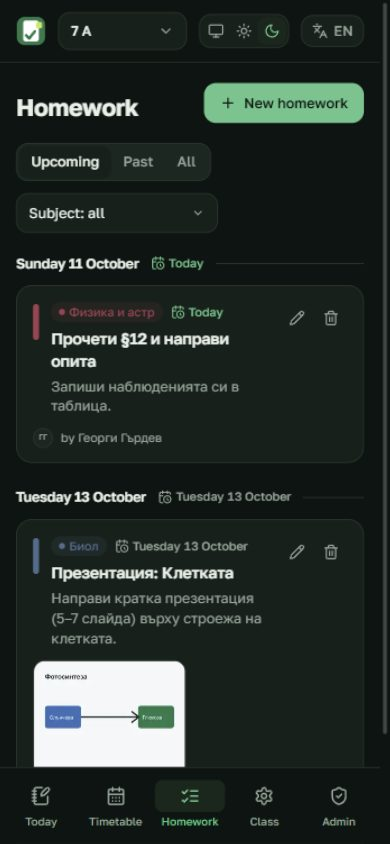
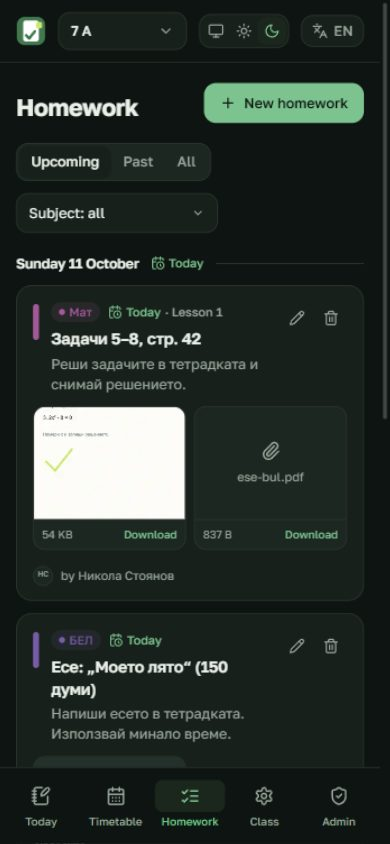
Branding: exact pill padding via text metrics, sharper screenshots (pre-scaled to device pixels), anonymise sample data

diff --git a/server/src/sample7a.js b/server/src/sample7a.js
@@ -1,57 +1,74 @@
-// The timetable read from the user's Shkolo PDF (7 А, week of 05.10.2026).
-// Labels, teachers, rooms and times follow the PDF so imports stay faithful;
-// everything can be edited afterwards in the app.
+// Sample timetable used by the "Sample 7A" import button.
+//
+// The structure mirrors a real Shkolo export (day, period, subject, teacher,
+// room, times), but all names are FICTIONAL — no real people or schools.
 //
 // day: 1 = Monday ... 5 = Friday ; period: 0 = "нулев час", 1..7 = regular.
 
+const T = {
+  math: 'Елена Т. Димитрова',
+  lit: 'Стефан П. Йорданов',
+  geo: 'Ирина Н. Костова',
+  physics: 'Габриела П. Стоянова',
+  chem: 'Виолета Р. Маринова',
+  bio: 'Светла В. Павлова',
+  music: 'Десислава Й. Христова',
+  en: 'Надежда К. Василева',
+  it: 'Мария П. Ангелова',
+  tech: 'Радостина Д. Петрова',
+  pe: 'Петя Д. Николова',
+  pe2: 'Борис Р. Георгиев',
+  cs: 'Мартин И. Тодоров',
+};
+
 export const sample7a = {
   name: '7 А',
-  note: 'Георги И. Гърдев, 7А - бб · класен: Галина К. Големанова-Перфанова',
+  note: 'Демонстрационен клас · класен ръководител: Надежда К. Василева',
   slots: [
-    // Понделник
-    { day: 1, period: 1, subject: 'КМИТ / Група 1', teacher: 'Павлина П. Дончева', room: 'к-т 16/16а (Етаж 2)', start: '13:30', end: '14:10' },
-    { day: 1, period: 2, subject: 'КМИТ / Група 1', teacher: 'Павлина П. Дончева', room: 'к-т 16/16а (Етаж 2)', start: '14:20', end: '15:00' },
-    { day: 1, period: 3, subject: 'Геогр', teacher: 'Лилия Н. Боярова-Недялкова', room: 'к-т 28 (Сутерен)', start: '15:10', end: '15:50' },
-    { day: 1, period: 4, subject: 'Мат', teacher: 'Венета Т. Кюркова', room: 'к-т 23 (Етаж 3)', start: '16:10', end: '16:50' },
-    { day: 1, period: 5, subject: 'БЕЛ (ИУЧ - РП/УП-А)', teacher: 'Веселин П. Кюмюрджиев', room: 'к-т 27 (мултимедиен кабинет) (Сутерен)', start: '17:00', end: '17:40' },
-    { day: 1, period: 6, subject: 'Техн и предпр', teacher: 'Светлана Д. Динева', room: 'к-т 25 (Етаж 3)', start: '17:50', end: '18:30' },
+    // Понеделник
+    { day: 1, period: 1, subject: 'КМИТ / Група 1', teacher: T.it, room: 'к-т 16/16а (Етаж 2)', start: '13:30', end: '14:10' },
+    { day: 1, period: 2, subject: 'КМИТ / Група 1', teacher: T.it, room: 'к-т 16/16а (Етаж 2)', start: '14:20', end: '15:00' },
+    { day: 1, period: 3, subject: 'Геогр', teacher: T.geo, room: 'к-т 28 (Сутерен)', start: '15:10', end: '15:50' },
+    { day: 1, period: 4, subject: 'Мат', teacher: T.math, room: 'к-т 23 (Етаж 3)', start: '16:10', end: '16:50' },
+    { day: 1, period: 5, subject: 'БЕЛ (ИУЧ - РП/УП-А)', teacher: T.lit, room: 'к-т 27 (мултимедиен кабинет) (Сутерен)', start: '17:00', end: '17:40' },
+    { day: 1, period: 6, subject: 'Техн и предпр', teacher: T.tech, room: 'к-т 25 (Етаж 3)', start: '17:50', end: '18:30' },
 
     // Вторник
-    { day: 2, period: 0, subject: 'БЕЛ (ФУЧ - ДП/ДРУП)', teacher: 'Веселин П. Кюмюрджиев', room: '', start: '12:40', end: '13:20' },
-    { day: 2, period: 1, subject: 'Физика и астр', teacher: 'Кети П. Маринова', room: 'к-т 22 (Етаж 3)', start: '13:30', end: '14:10' },
-    { day: 2, period: 2, subject: 'Музика', teacher: 'Яна Й. Тодорова', room: 'к-т 13 (Етаж 1)', start: '14:20', end: '15:00' },
-    { day: 2, period: 3, subject: 'БЕЛ', teacher: 'Веселин П. Кюмюрджиев', room: 'к-т 13 (Етаж 1)', start: '15:10', end: '15:50' },
-    { day: 2, period: 4, subject: 'История', teacher: 'Лилия Н. Боярова-Недялкова', room: 'к-т 23 (Етаж 3)', start: '16:10', end: '16:50' },
-    { day: 2, period: 5, subject: 'Англ', teacher: 'Галина К. Големанова-Перфанова', room: 'к-т 24 (Етаж 3)', start: '17:00', end: '17:40' },
-    { day: 2, period: 6, subject: 'Англ', teacher: 'Галина К. Големанова-Перфанова', room: 'к-т 24 (Етаж 3)', start: '17:50', end: '18:30' },
+    { day: 2, period: 0, subject: 'БЕЛ (ФУЧ - ДП/ДРУП)', teacher: T.lit, room: '', start: '12:40', end: '13:20' },
+    { day: 2, period: 1, subject: 'Физика и астр', teacher: T.physics, room: 'к-т 22 (Етаж 3)', start: '13:30', end: '14:10' },
+    { day: 2, period: 2, subject: 'Музика', teacher: T.music, room: 'к-т 13 (Етаж 1)', start: '14:20', end: '15:00' },
+    { day: 2, period: 3, subject: 'БЕЛ', teacher: T.lit, room: 'к-т 13 (Етаж 1)', start: '15:10', end: '15:50' },
+    { day: 2, period: 4, subject: 'История', teacher: T.geo, room: 'к-т 23 (Етаж 3)', start: '16:10', end: '16:50' },
+    { day: 2, period: 5, subject: 'Англ', teacher: T.en, room: 'к-т 24 (Етаж 3)', start: '17:00', end: '17:40' },
+    { day: 2, period: 6, subject: 'Англ', teacher: T.en, room: 'к-т 24 (Етаж 3)', start: '17:50', end: '18:30' },
 
     // Сряда
-    { day: 3, period: 0, subject: 'Волейбол', teacher: 'Красимира Д. Иванова', room: '', start: '12:40', end: '13:20' },
-    { day: 3, period: 1, subject: 'Мат', teacher: 'Венета Т. Кюркова', room: 'к-т 23 (Етаж 3)', start: '13:30', end: '14:10' },
-    { day: 3, period: 2, subject: 'Физика и астр', teacher: 'Кети П. Маринова', room: 'к-т 22 (Етаж 3)', start: '14:20', end: '15:00' },
-    { day: 3, period: 3, subject: 'БЕЛ', teacher: 'Веселин П. Кюмюрджиев', room: 'к-т 13 (Етаж 1)', start: '15:10', end: '15:50' },
-    { day: 3, period: 4, subject: 'БЕЛ', teacher: 'Веселин П. Кюмюрджиев', room: 'к-т 13 (Етаж 1)', start: '16:10', end: '16:50' },
-    { day: 3, period: 5, subject: 'Англ', teacher: 'Галина К. Големанова-Перфанова', room: 'к-т 24 (Етаж 3)', start: '17:00', end: '17:40' },
-    { day: 3, period: 6, subject: 'История', teacher: 'Лилия Н. Боярова-Недялкова', room: 'к-т 24 (Етаж 3)', start: '17:50', end: '18:30' },
-    { day: 3, period: 7, subject: 'ФВС', teacher: 'Красимира Д. Иванова', room: '', start: '18:40', end: '19:20' },
+    { day: 3, period: 0, subject: 'Волейбол', teacher: T.pe, room: '', start: '12:40', end: '13:20' },
+    { day: 3, period: 1, subject: 'Мат', teacher: T.math, room: 'к-т 23 (Етаж 3)', start: '13:30', end: '14:10' },
+    { day: 3, period: 2, subject: 'Физика и астр', teacher: T.physics, room: 'к-т 22 (Етаж 3)', start: '14:20', end: '15:00' },
+    { day: 3, period: 3, subject: 'БЕЛ', teacher: T.lit, room: 'к-т 13 (Етаж 1)', start: '15:10', end: '15:50' },
+    { day: 3, period: 4, subject: 'БЕЛ', teacher: T.lit, room: 'к-т 13 (Етаж 1)', start: '16:10', end: '16:50' },
+    { day: 3, period: 5, subject: 'Англ', teacher: T.en, room: 'к-т 24 (Етаж 3)', start: '17:00', end: '17:40' },
+    { day: 3, period: 6, subject: 'История', teacher: T.geo, room: 'к-т 24 (Етаж 3)', start: '17:50', end: '18:30' },
+    { day: 3, period: 7, subject: 'ФВС', teacher: T.pe, room: '', start: '18:40', end: '19:20' },
 
     // Четвъртък
-    { day: 4, period: 1, subject: 'ФВС (ЗАМ.)', teacher: 'Цветан Р. Иванов', room: '', start: '13:30', end: '14:10' },
-    { day: 4, period: 2, subject: 'Химия', teacher: 'Станимира Р. Колева', room: 'к-т 29 (Руски център) (Сутерен)', start: '14:20', end: '15:00' },
-    { day: 4, period: 3, subject: 'Мат', teacher: 'Венета Т. Кюркова', room: 'к-т 23 (Етаж 3)', start: '15:10', end: '15:50' },
-    { day: 4, period: 4, subject: 'Мат', teacher: 'Венета Т. Кюркова', room: 'к-т 23 (Етаж 3)', start: '16:10', end: '16:50' },
-    { day: 4, period: 5, subject: 'Биол', teacher: 'Росица В. Делчева', room: 'к-т 21 (Етаж 2)', start: '17:00', end: '17:40' },
-    { day: 4, period: 6, subject: 'Геогр', teacher: 'Лилия Н. Боярова-Недялкова', room: 'к-т 29 (Руски център) (Сутерен)', start: '17:50', end: '18:30' },
-    { day: 4, period: 7, subject: 'Безоп на движ', teacher: 'Галина К. Големанова-Перфанова', room: 'к-т 24 (Етаж 3)', start: '18:40', end: '19:20' },
+    { day: 4, period: 1, subject: 'ФВС (ЗАМ.)', teacher: T.pe2, room: '', start: '13:30', end: '14:10' },
+    { day: 4, period: 2, subject: 'Химия', teacher: T.chem, room: 'к-т 29 (Руски център) (Сутерен)', start: '14:20', end: '15:00' },
+    { day: 4, period: 3, subject: 'Мат', teacher: T.math, room: 'к-т 23 (Етаж 3)', start: '15:10', end: '15:50' },
+    { day: 4, period: 4, subject: 'Мат', teacher: T.math, room: 'к-т 23 (Етаж 3)', start: '16:10', end: '16:50' },
+    { day: 4, period: 5, subject: 'Биол', teacher: T.bio, room: 'к-т 21 (Етаж 2)', start: '17:00', end: '17:40' },
+    { day: 4, period: 6, subject: 'Геогр', teacher: T.geo, room: 'к-т 29 (Руски център) (Сутерен)', start: '17:50', end: '18:30' },
+    { day: 4, period: 7, subject: 'Безоп на движ', teacher: T.en, room: 'к-т 24 (Етаж 3)', start: '18:40', end: '19:20' },
 
     // Петък
-    { day: 5, period: 0, subject: 'Мат (ФУЧ - ДП/ДРУП)', teacher: 'Венета Т. Кюркова', room: '', start: '12:40', end: '13:20' },
-    { day: 5, period: 1, subject: 'Мат', teacher: 'Венета Т. Кюркова', room: 'к-т 23 (Етаж 3)', start: '13:30', end: '14:10' },
-    { day: 5, period: 2, subject: 'Мат (ИУЧ - РП/УП-А)', teacher: 'Венета Т. Кюркова', room: 'к-т 23 (Етаж 3)', start: '14:20', end: '15:00' },
-    { day: 5, period: 3, subject: 'Музика', teacher: 'Яна Й. Тодорова', room: 'к-т 13 (Етаж 1)', start: '15:10', end: '15:50' },
-    { day: 5, period: 4, subject: 'Биол', teacher: 'Росица В. Делчева', room: 'к-т 20 (Етаж 2)', start: '16:10', end: '16:50' },
-    { day: 5, period: 5, subject: 'БЕЛ', teacher: 'Веселин П. Кюмюрджиев', room: 'к-т 23 (Етаж 3)', start: '17:00', end: '17:40' },
-    { day: 5, period: 6, subject: 'БЕЛ', teacher: 'Веселин П. Кюмюрджиев', room: 'к-т 23 (Етаж 3)', start: '17:50', end: '18:30' },
-    { day: 5, period: 7, subject: 'ИИ', teacher: 'Йоан И. Попов', room: 'к-т 28 (Сутерен)', start: '18:40', end: '19:20' },
+    { day: 5, period: 0, subject: 'Мат (ФУЧ - ДП/ДРУП)', teacher: T.math, room: '', start: '12:40', end: '13:20' },
+    { day: 5, period: 1, subject: 'Мат', teacher: T.math, room: 'к-т 23 (Етаж 3)', start: '13:30', end: '14:10' },
+    { day: 5, period: 2, subject: 'Мат (ИУЧ - РП/УП-А)', teacher: T.math, room: 'к-т 23 (Етаж 3)', start: '14:20', end: '15:00' },
+    { day: 5, period: 3, subject: 'Музика', teacher: T.music, room: 'к-т 13 (Етаж 1)', start: '15:10', end: '15:50' },
+    { day: 5, period: 4, subject: 'Биол', teacher: T.bio, room: 'к-т 20 (Етаж 2)', start: '16:10', end: '16:50' },
+    { day: 5, period: 5, subject: 'БЕЛ', teacher: T.lit, room: 'к-т 23 (Етаж 3)', start: '17:00', end: '17:40' },
+    { day: 5, period: 6, subject: 'БЕЛ', teacher: T.lit, room: 'к-т 23 (Етаж 3)', start: '17:50', end: '18:30' },
+    { day: 5, period: 7, subject: 'ИИ', teacher: T.cs, room: 'к-т 28 (Сутерен)', start: '18:40', end: '19:20' },
   ],
 };

diff --git a/README.md b/README.md
@@ -67,9 +67,8 @@ and automatic HTTPS. Build with `npm run build`, run with `npm start`.
 |---|---|---|
 | ![Today](web/branding/shots/today.jpg) | ![Week](web/branding/shots/week.jpg) | ![Homework](web/branding/shots/homework.jpg) |
 
-Admin panel (stats, users, bans, login fingerprints, class features):
-
-![Admin](web/branding/shots/admin.jpg)
+The sample class, teachers and members in these screenshots are **fictional**
+(see `server/scripts/seed-demo.mjs`).
 
 Branding sources live in [`web/branding/`](web/branding/README.md).
 
